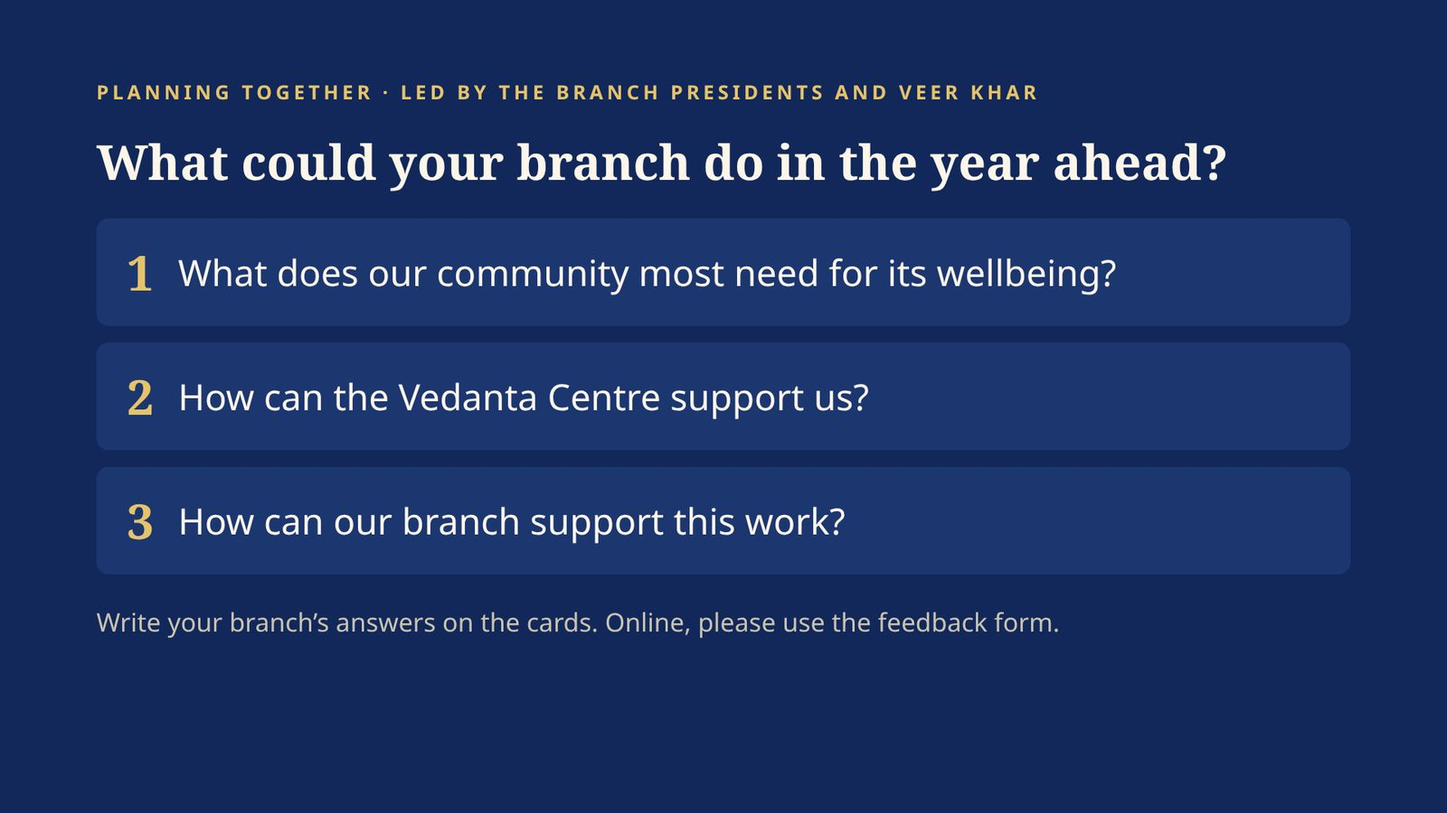
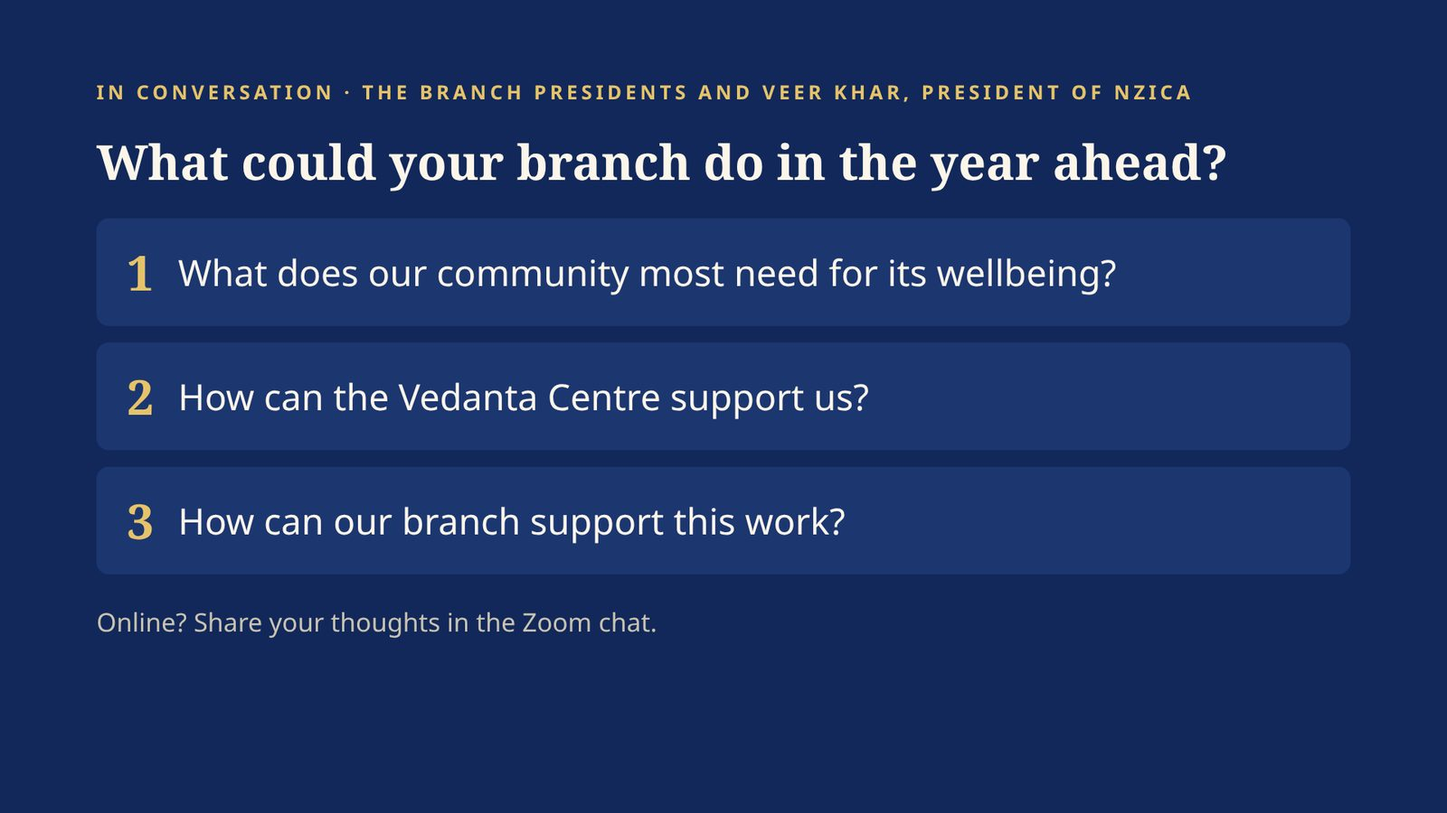
RET-001 Session 3: planning slide becomes an open conversation (no cards)
Claude-Session: https://claude.ai/code/session_016ku5Y66eEZCapcjc1YDX4h

Changed region(s): [[0.0625, 0.0933, 0.8438, 0.1244], [0.0625, 0.7467, 0.75, 0.7778]]

diff --git a/RET-001/session-3/index.html b/RET-001/session-3/index.html
@@ -67,7 +67,7 @@ footer{max-width:1100px;margin:0 auto;padding:8px 16px 32px;font-size:13px;color
 </main>
 <footer>Ramakrishna Vedanta Centre of New Zealand · vedanta.nz · Press Play to hear each slide read aloud by your device's built-in voice. Keys: ← → to move, space to play or pause.</footer>
 <script>
-const SLIDES = [{"id": "cover", "img": "slides/s-01.jpg", "notes": "Welcome back after lunch. In Session 1 we explored yajña, the spirit of seva; in the forest we listened to the trees. Now we walk together: we share the Ritam Wellness Project of the Ramakrishna Vedanta Centre, its vision, mission and pathways, and then explore with the branch presidents and executives how the Centre and NZICA's branches can support one another."}, {"id": "whynow", "img": "slides/s-02.jpg", "notes": "These figures describe the people our branches already serve. Young people: in the 2024/25 New Zealand Health Survey, 22.9 per cent of 15 to 24 year olds reported high or very high psychological distress, the highest of any age group. Across all adults it was 14.3 per cent, about 619,000 people, and the rate has risen significantly over the last five and ten years. Elders: Age Concern found that 59 per cent of New Zealanders aged 65 and over had felt lonely recently, and 30 per cent feel lonely a lot or all of the time. For many elders in our community, children and grandchildren live far away, and language can make the wider community feel distant. Asian communities: the 2025 New Zealand Asian Wellbeing and Mental Health Survey by Asian Family Services found 57.2 per cent at risk of depression, with Indians among the groups most affected; life satisfaction has fallen by more than 11 per cent since 2021, and only 56.5 per cent feel a sense of belonging in their community. And 10.5 per cent of adults, about 456,000 people, wanted professional help for their mental health or substance use in the past year but did not receive it. The survey names what holds people back: stigma, language barriers and a lack of culturally appropriate support. These are exactly the gaps a trusted community organisation can help to fill."}, {"id": "nzicarole", "img": "slides/s-03.jpg", "notes": "Why is NZICA so well placed to respond? First, trust and reach: NZICA is the umbrella body of around 14 branches across the country, with families who know one another, festivals and halls where people already gather. Second, language and culture: the survey named language and a lack of culturally appropriate support as barriers; wellbeing offered in our own languages and in a familiar spirit answers both. Third, stigma: many in our community will not walk into a clinic, but anyone can come to a meditation or wellbeing session at their association; it is a gentle and respected door. Fourth, prevention: building resilience early, before a crisis, and knowing when and how to guide someone towards professional care. And belonging is itself medicine. Only about half of Asian New Zealanders feel they belong; a branch where youth, families and elders are known and cared for is already a place of healing. This is where the Ritam Wellness Project and NZICA can work hand in hand."}, {"id": "uplift", "img": "slides/s-04.jpg", "notes": "This is the heart of today's message. Sri Krishna says: lift yourself up by yourself; do not let yourself sink; you alone are your own friend, and you alone your own enemy. What is true of a person is true of a community. The wellbeing of our young people, our elders and our families cannot only be handed to us from outside. It has to rise from within our own community, through NZICA, the umbrella body of around 14 branches across New Zealand; it has to be rooted in our own culture and spirituality, the wisdom our sages gave the world; and it has to be led by our own people, trained, supported and serving one another. We have the treasure already: meditation, yoga, the Gītā, the Upaniṣads, the lives of Sri Ramakrishna, Holy Mother and Swami Vivekananda. Uttiṣṭhata jāgrata: arise, awake. Today we ask every branch to take up this work as its own seva."}, {"id": "ritam", "img": "slides/s-05.jpg", "notes": "Ritam, ṛtam in Sanskrit, is the cosmic order and harmony that holds the universe together. When the mind is in harmony with that order, there is health and wellbeing; when it drifts out of harmony, there is suffering. Our vision: that every person may live in harmony with their own true Self, with one another and with nature. Our mission: to share the timeless wisdom and practices of Yoga and Vedanta, in the light of modern science, as practical knowledge and skills for holistic wellbeing, especially mental health, for anyone, anywhere, at any time. The motto Swami Vivekananda gave the Ramakrishna Order joins our own growth and the welfare of the world: the same two reasons NZICA members gave this morning."}, {"id": "approach", "img": "slides/s-06.jpg", "notes": "The project works on three paths at once. First, in-person immersion at our Vedanta Retreat Centre at Glen Murray, where people can step away from daily pressures into silence, nature and practice. Second, online learning on vedanta.nz, so that the knowledge and skills reach anyone, anywhere, at any time. Third, a training-of-trainers approach: one swami cannot reach everyone, but trained and certified members can carry these practices into their own families, branches and communities, with the Centre's support."}, {"id": "glenmurray", "img": "slides/s-07.jpg", "notes": "The Vedanta Retreat Centre at Glen Murray was purchased on 31 May 2024 and inaugurated in November 2024 with a blessing by Māori elders. In August 2026 NZICA members planted 1,000 trees here, and the renovated barn was opened on 6 August. It is built for one purpose: mental wellbeing through spiritual solutions, especially for young people and elders. Here people can step away from screens and pressures into the silence of the forest, and learn practices they can take home."}, {"id": "barn", "img": "slides/s-08.jpg", "notes": "The barn you are sitting in began as an old farm shed. On the left you see it during the renovation, with volunteers lifting the wall panels into place; on the right, the hall as it is today, with its timber walls, stage and glass doors opening onto the forest. It was renovated through the generous gift of a devotee, who wishes to remain unnamed, and was opened on 6 August 2026. It has become the heart of the retreat centre: a hall for talks, meditation, retreats and community days like this one. We offer our heartfelt gratitude."}, {"id": "online", "img": "slides/s-09.jpg", "notes": "The second path is online. On vedanta.nz there are courses for every level: the Mind course in a beginners' conversational version and an advanced version, the Ritam Wellness for Parents course, and study courses on the Bhagavad Gītā, the Gospel of Sri Ramakrishna, the Gospel of Holy Mother and Swami Vivekananda. Our podcasts are free on Apple and Google, including Being in Balance with guided meditations. Satsang Study holds the slides, study papers, quizzes and reflections from every satsang and retreat, including today's study paper on yajña. And there are live classes: fortnightly satsangs at the New Lynn Centre in Auckland and monthly meditation classes on the first Wednesday of each month in Hamilton, all in person and on Zoom."}, {"id": "pathway", "img": "slides/s-10.jpg", "notes": "This is the pathway for anyone who wishes to walk with us. Begin by joining one of our Ritam Yarning Circles, always-open online circles where members learn, share and ask questions. Through them you can access the courses, studied at your own pace with the podcasts. Come to workshops and retreats here at Glen Murray to practise together, and join the live online classes: satsangs and meditation. Those who wish to go further can join the Training of Trainers programme and be certified as a VedantaNZ Wellness Coach. Such trainers can then deliver programmes in their own communities, supported by the Ramakrishna Vedanta Centre. Learning becomes serving: the wheel of yajña again."}, {"id": "tot", "img": "slides/s-11.jpg", "notes": "The Training of Trainers programme prepares people to become VedantaNZ Wellness Coaches. It is a structured programme in meditation-based wellbeing: understanding the mind, emotional resilience, stress management and practical contemplative skills, grounded in Yoga and Vedanta and in the findings of modern science. It is for community leaders, volunteers, teachers, health workers, parents and young adults who wish to serve. It leads to certification as a wellness trainer able to deliver short community wellbeing sessions, with the Centre's guidance and support. The programmes are preventive and educational in nature: they support, and never replace, professional mental health care, and trainers learn when and how to refer people for specialist help. If you or someone in your branch is interested, please register your interest today."}, {"id": "branches", "img": "slides/s-12.jpg", "notes": "Here is how we hope to work with NZICA's branches. Selected members of each branch train and are certified as wellness trainers. They then offer meditation-based wellbeing sessions in their own branch: for young people, women, families and seniors, in their own language and cultural setting. The Ramakrishna Vedanta Centre supports them with content, mentoring, resources, retreat days at Glen Murray and clear safeguarding and referral guidance. The sessions are culturally sensitive, inclusive, preventive and non-clinical. This is how the work can reach every branch across New Zealand, not only those who can travel to Glen Murray."}, {"id": "paraspara", "img": "slides/s-13.jpg", "notes": "Sri Krishna gives us the spirit of every partnership in one verse. This morning we saw the wheel of yajña: each part of life gives and receives. Here the same truth is said of two partners: nourish one another, and both reach the highest good. Parasparaṁ bhāvayantaḥ: not one side giving and the other receiving, but each uplifting the other. That is the spirit in which the Vedanta Centre and NZICA's branches can walk together. Let us now ask, very practically: how can we support you, and how can you support this work?"}, {"id": "mutual", "img": "slides/s-14.jpg", "notes": "In the spirit of parasparaṁ bhāvayantaḥ, here are some ways we might nourish one another. The Vedanta Centre can offer wellbeing talks and meditation at branch events, training and mentoring of branch members, retreat days at Glen Murray, free courses, podcasts and resources, and help with programmes for youth, women and seniors. The branches can share our programmes with their members, offer volunteers, skills and a liaison person, provide venues for talks and workshops, nominate members for the Training of Trainers, support facilities and fundraising such as the barn, and tell us what their communities most need. This is a starting list: we would love to hear your ideas."}, {"id": "mou", "img": "slides/s-15.jpg", "notes": "To give this partnership a clear form, the Vedanta Centre has proposed a Memorandum of Understanding to the President of NZICA. Its purpose is to work together on community mental wellbeing: short, structured, culturally sensitive sessions on emotional resilience, self-awareness, stress management, meditation and practical wellbeing skills, for youth, women, families, community leaders, volunteers and seniors. Under it, the Vedanta Centre designs and delivers programmes, trains wellness coaches through a training-of-trainers approach, and provides content, resources, advice and safeguards. NZICA appoints a liaison person, supports outreach and promotion, helps identify participant groups, venues and branch connections, and encourages members to train as trainers. Together we may run awareness sessions, workshops, youth, women's, family and leadership sessions, and pilot programmes. NZICA may also support the Centre's programmes, facilities and fundraising. The MoU is for two years, renewable, with a joint review each year, and it makes clear that this work is preventive and educational and never replaces professional mental health care. It is still a draft, proposed to the President and the executives of NZICA for their consideration. Today is a chance for the branch executives to hear it, ask questions and suggest how it can best serve their branches, before the NZICA executive takes it forward."}, {"id": "planning", "img": "slides/s-16.jpg", "notes": "Now the conversation passes to the branch presidents and executives, led by Veer Khar. Each branch sits together for about twenty minutes with three questions: What does our community most need for its wellbeing? How can the Vedanta Centre support us? How can our branch support this work? Please write your answers on the cards, one card per branch, so that nothing is lost; those joining on Zoom can answer in the online feedback form. We will collect all the cards, share a summary with NZICA, and use them to plan the year ahead together."}, {"id": "begin", "img": "slides/s-17.jpg", "notes": "Three simple ways to begin today. Scan the first code to join the Ritam Yarning Circle for VedantaNZ Members, our online circle to learn, share and ask questions. Scan the second to start the free beginners course, Conversations on the Mind, which has a podcast for every lesson. Scan the third for Satsang Study, where today's study paper, slides and quiz are waiting. If you are interested in the Training of Trainers programme, please write to mail@vedanta.nz or speak to Swami Shuklananda before you leave."}, {"id": "extension", "img": "slides/s-18.jpg", "notes": "This is the proposed extension at the south end of the barn, where the old shed now stands. Between two passages, an amenities block holds two showers and two toilets for men, two showers and two toilets for women, and hand basins, with a room for the water pump and filtration and a storage room. Beyond it is a storage shed of 8 by 9 metres, and the existing awning is extended along the side. With these facilities the retreat centre can welcome larger groups, like today's, for full-day and residential retreats."}, {"id": "appeal", "img": "slides/s-19.jpg", "notes": "Our next step is to complete the barn with a storage facility and public toilets, so that the retreat centre can welcome larger groups like today's in comfort. About $50,000 is still needed. We warmly invite sponsors, donors and NZICA branches to share in this offering, in the spirit of today's theme: many offerings, one sacred fire. Gifts can be made at vedanta.nz/donate, under the Vedanta Wellness Project. The Ramakrishna Vedanta Centre is a registered charity in New Zealand (CC60351)."}, {"id": "feedback", "img": "slides/s-20.jpg", "notes": "Before we plant the tree, please take two minutes to give us your feedback. Scan the code with your phone camera; the form opens straight away. It asks how you found each session, what you gained, and what would help your branch most. Your answers will be shared with NZICA so that together we can plan the year ahead. Those joining on Zoom will find the link in the chat. Thank you."}, {"id": "closing", "img": "slides/s-21.jpg", "notes": "We close by sharing our feedback, planting a tree to mark the partnership between NZICA and the Ramakrishna Vedanta Centre, and chanting together once more our theme mantra, the Saṁjñāna Sūkta: walk together, speak together, let your minds know one another, as the devas of old, in harmony, each took up their own share. Thank you all, and Om śāntiḥ śāntiḥ śāntiḥ."}];
+const SLIDES = [{"id": "cover", "img": "slides/s-01.jpg", "notes": "Welcome back after lunch. In Session 1 we explored yajña, the spirit of seva; in the forest we listened to the trees. Now we walk together: we share the Ritam Wellness Project of the Ramakrishna Vedanta Centre, its vision, mission and pathways, and then explore with the branch presidents and executives how the Centre and NZICA's branches can support one another."}, {"id": "whynow", "img": "slides/s-02.jpg", "notes": "These figures describe the people our branches already serve. Young people: in the 2024/25 New Zealand Health Survey, 22.9 per cent of 15 to 24 year olds reported high or very high psychological distress, the highest of any age group. Across all adults it was 14.3 per cent, about 619,000 people, and the rate has risen significantly over the last five and ten years. Elders: Age Concern found that 59 per cent of New Zealanders aged 65 and over had felt lonely recently, and 30 per cent feel lonely a lot or all of the time. For many elders in our community, children and grandchildren live far away, and language can make the wider community feel distant. Asian communities: the 2025 New Zealand Asian Wellbeing and Mental Health Survey by Asian Family Services found 57.2 per cent at risk of depression, with Indians among the groups most affected; life satisfaction has fallen by more than 11 per cent since 2021, and only 56.5 per cent feel a sense of belonging in their community. And 10.5 per cent of adults, about 456,000 people, wanted professional help for their mental health or substance use in the past year but did not receive it. The survey names what holds people back: stigma, language barriers and a lack of culturally appropriate support. These are exactly the gaps a trusted community organisation can help to fill."}, {"id": "nzicarole", "img": "slides/s-03.jpg", "notes": "Why is NZICA so well placed to respond? First, trust and reach: NZICA is the umbrella body of around 14 branches across the country, with families who know one another, festivals and halls where people already gather. Second, language and culture: the survey named language and a lack of culturally appropriate support as barriers; wellbeing offered in our own languages and in a familiar spirit answers both. Third, stigma: many in our community will not walk into a clinic, but anyone can come to a meditation or wellbeing session at their association; it is a gentle and respected door. Fourth, prevention: building resilience early, before a crisis, and knowing when and how to guide someone towards professional care. And belonging is itself medicine. Only about half of Asian New Zealanders feel they belong; a branch where youth, families and elders are known and cared for is already a place of healing. This is where the Ritam Wellness Project and NZICA can work hand in hand."}, {"id": "uplift", "img": "slides/s-04.jpg", "notes": "This is the heart of today's message. Sri Krishna says: lift yourself up by yourself; do not let yourself sink; you alone are your own friend, and you alone your own enemy. What is true of a person is true of a community. The wellbeing of our young people, our elders and our families cannot only be handed to us from outside. It has to rise from within our own community, through NZICA, the umbrella body of around 14 branches across New Zealand; it has to be rooted in our own culture and spirituality, the wisdom our sages gave the world; and it has to be led by our own people, trained, supported and serving one another. We have the treasure already: meditation, yoga, the Gītā, the Upaniṣads, the lives of Sri Ramakrishna, Holy Mother and Swami Vivekananda. Uttiṣṭhata jāgrata: arise, awake. Today we ask every branch to take up this work as its own seva."}, {"id": "ritam", "img": "slides/s-05.jpg", "notes": "Ritam, ṛtam in Sanskrit, is the cosmic order and harmony that holds the universe together. When the mind is in harmony with that order, there is health and wellbeing; when it drifts out of harmony, there is suffering. Our vision: that every person may live in harmony with their own true Self, with one another and with nature. Our mission: to share the timeless wisdom and practices of Yoga and Vedanta, in the light of modern science, as practical knowledge and skills for holistic wellbeing, especially mental health, for anyone, anywhere, at any time. The motto Swami Vivekananda gave the Ramakrishna Order joins our own growth and the welfare of the world: the same two reasons NZICA members gave this morning."}, {"id": "approach", "img": "slides/s-06.jpg", "notes": "The project works on three paths at once. First, in-person immersion at our Vedanta Retreat Centre at Glen Murray, where people can step away from daily pressures into silence, nature and practice. Second, online learning on vedanta.nz, so that the knowledge and skills reach anyone, anywhere, at any time. Third, a training-of-trainers approach: one swami cannot reach everyone, but trained and certified members can carry these practices into their own families, branches and communities, with the Centre's support."}, {"id": "glenmurray", "img": "slides/s-07.jpg", "notes": "The Vedanta Retreat Centre at Glen Murray was purchased on 31 May 2024 and inaugurated in November 2024 with a blessing by Māori elders. In August 2026 NZICA members planted 1,000 trees here, and the renovated barn was opened on 6 August. It is built for one purpose: mental wellbeing through spiritual solutions, especially for young people and elders. Here people can step away from screens and pressures into the silence of the forest, and learn practices they can take home."}, {"id": "barn", "img": "slides/s-08.jpg", "notes": "The barn you are sitting in began as an old farm shed. On the left you see it during the renovation, with volunteers lifting the wall panels into place; on the right, the hall as it is today, with its timber walls, stage and glass doors opening onto the forest. It was renovated through the generous gift of a devotee, who wishes to remain unnamed, and was opened on 6 August 2026. It has become the heart of the retreat centre: a hall for talks, meditation, retreats and community days like this one. We offer our heartfelt gratitude."}, {"id": "online", "img": "slides/s-09.jpg", "notes": "The second path is online. On vedanta.nz there are courses for every level: the Mind course in a beginners' conversational version and an advanced version, the Ritam Wellness for Parents course, and study courses on the Bhagavad Gītā, the Gospel of Sri Ramakrishna, the Gospel of Holy Mother and Swami Vivekananda. Our podcasts are free on Apple and Google, including Being in Balance with guided meditations. Satsang Study holds the slides, study papers, quizzes and reflections from every satsang and retreat, including today's study paper on yajña. And there are live classes: fortnightly satsangs at the New Lynn Centre in Auckland and monthly meditation classes on the first Wednesday of each month in Hamilton, all in person and on Zoom."}, {"id": "pathway", "img": "slides/s-10.jpg", "notes": "This is the pathway for anyone who wishes to walk with us. Begin by joining one of our Ritam Yarning Circles, always-open online circles where members learn, share and ask questions. Through them you can access the courses, studied at your own pace with the podcasts. Come to workshops and retreats here at Glen Murray to practise together, and join the live online classes: satsangs and meditation. Those who wish to go further can join the Training of Trainers programme and be certified as a VedantaNZ Wellness Coach. Such trainers can then deliver programmes in their own communities, supported by the Ramakrishna Vedanta Centre. Learning becomes serving: the wheel of yajña again."}, {"id": "tot", "img": "slides/s-11.jpg", "notes": "The Training of Trainers programme prepares people to become VedantaNZ Wellness Coaches. It is a structured programme in meditation-based wellbeing: understanding the mind, emotional resilience, stress management and practical contemplative skills, grounded in Yoga and Vedanta and in the findings of modern science. It is for community leaders, volunteers, teachers, health workers, parents and young adults who wish to serve. It leads to certification as a wellness trainer able to deliver short community wellbeing sessions, with the Centre's guidance and support. The programmes are preventive and educational in nature: they support, and never replace, professional mental health care, and trainers learn when and how to refer people for specialist help. If you or someone in your branch is interested, please register your interest today."}, {"id": "branches", "img": "slides/s-12.jpg", "notes": "Here is how we hope to work with NZICA's branches. Selected members of each branch train and are certified as wellness trainers. They then offer meditation-based wellbeing sessions in their own branch: for young people, women, families and seniors, in their own language and cultural setting. The Ramakrishna Vedanta Centre supports them with content, mentoring, resources, retreat days at Glen Murray and clear safeguarding and referral guidance. The sessions are culturally sensitive, inclusive, preventive and non-clinical. This is how the work can reach every branch across New Zealand, not only those who can travel to Glen Murray."}, {"id": "paraspara", "img": "slides/s-13.jpg", "notes": "Sri Krishna gives us the spirit of every partnership in one verse. This morning we saw the wheel of yajña: each part of life gives and receives. Here the same truth is said of two partners: nourish one another, and both reach the highest good. Parasparaṁ bhāvayantaḥ: not one side giving and the other receiving, but each uplifting the other. That is the spirit in which the Vedanta Centre and NZICA's branches can walk together. Let us now ask, very practically: how can we support you, and how can you support this work?"}, {"id": "mutual", "img": "slides/s-14.jpg", "notes": "In the spirit of parasparaṁ bhāvayantaḥ, here are some ways we might nourish one another. The Vedanta Centre can offer wellbeing talks and meditation at branch events, training and mentoring of branch members, retreat days at Glen Murray, free courses, podcasts and resources, and help with programmes for youth, women and seniors. The branches can share our programmes with their members, offer volunteers, skills and a liaison person, provide venues for talks and workshops, nominate members for the Training of Trainers, support facilities and fundraising such as the barn, and tell us what their communities most need. This is a starting list: we would love to hear your ideas."}, {"id": "mou", "img": "slides/s-15.jpg", "notes": "To give this partnership a clear form, the Vedanta Centre has proposed a Memorandum of Understanding to the President of NZICA. Its purpose is to work together on community mental wellbeing: short, structured, culturally sensitive sessions on emotional resilience, self-awareness, stress management, meditation and practical wellbeing skills, for youth, women, families, community leaders, volunteers and seniors. Under it, the Vedanta Centre designs and delivers programmes, trains wellness coaches through a training-of-trainers approach, and provides content, resources, advice and safeguards. NZICA appoints a liaison person, supports outreach and promotion, helps identify participant groups, venues and branch connections, and encourages members to train as trainers. Together we may run awareness sessions, workshops, youth, women's, family and leadership sessions, and pilot programmes. NZICA may also support the Centre's programmes, facilities and fundraising. The MoU is for two years, renewable, with a joint review each year, and it makes clear that this work is preventive and educational and never replaces professional mental health care. It is still a draft, proposed to the President and the executives of NZICA for their consideration. Today is a chance for the branch executives to hear it, ask questions and suggest how it can best serve their branches, before the NZICA executive takes it forward."}, {"id": "planning", "img": "slides/s-16.jpg", "notes": "Now we open the conversation to the branch presidents and to Veer Khar, President of NZICA. Three questions can guide us: What does our community most need for its wellbeing? How can the Vedanta Centre support us? How can our branch support this work? Those joining on Zoom are welcome to share their thoughts in the chat. We will note the main points, share them with NZICA, and use them to plan the year ahead together."}, {"id": "begin", "img": "slides/s-17.jpg", "notes": "Three simple ways to begin today. Scan the first code to join the Ritam Yarning Circle for VedantaNZ Members, our online circle to learn, share and ask questions. Scan the second to start the free beginners course, Conversations on the Mind, which has a podcast for every lesson. Scan the third for Satsang Study, where today's study paper, slides and quiz are waiting. If you are interested in the Training of Trainers programme, please write to mail@vedanta.nz or speak to Swami Shuklananda before you leave."}, {"id": "extension", "img": "slides/s-18.jpg", "notes": "This is the proposed extension at the south end of the barn, where the old shed now stands. Between two passages, an amenities block holds two showers and two toilets for men, two showers and two toilets for women, and hand basins, with a room for the water pump and filtration and a storage room. Beyond it is a storage shed of 8 by 9 metres, and the existing awning is extended along the side. With these facilities the retreat centre can welcome larger groups, like today's, for full-day and residential retreats."}, {"id": "appeal", "img": "slides/s-19.jpg", "notes": "Our next step is to complete the barn with a storage facility and public toilets, so that the retreat centre can welcome larger groups like today's in comfort. About $50,000 is still needed. We warmly invite sponsors, donors and NZICA branches to share in this offering, in the spirit of today's theme: many offerings, one sacred fire. Gifts can be made at vedanta.nz/donate, under the Vedanta Wellness Project. The Ramakrishna Vedanta Centre is a registered charity in New Zealand (CC60351)."}, {"id": "feedback", "img": "slides/s-20.jpg", "notes": "Before we plant the tree, please take two minutes to give us your feedback. Scan the code with your phone camera; the form opens straight away. It asks how you found each session, what you gained, and what would help your branch most. Your answers will be shared with NZICA so that together we can plan the year ahead. Those joining on Zoom will find the link in the chat. Thank you."}, {"id": "closing", "img": "slides/s-21.jpg", "notes": "We close by sharing our feedback, planting a tree to mark the partnership between NZICA and the Ramakrishna Vedanta Centre, and chanting together once more our theme mantra, the Saṁjñāna Sūkta: walk together, speak together, let your minds know one another, as the devas of old, in harmony, each took up their own share. Thank you all, and Om śāntiḥ śāntiḥ śāntiḥ."}];
 const $ = id => document.getElementById(id);
 const synth = window.speechSynthesis;
 let i = 0, playing = false, auto = true, chunks = [], ci = 0, voices = [], token = 0;
